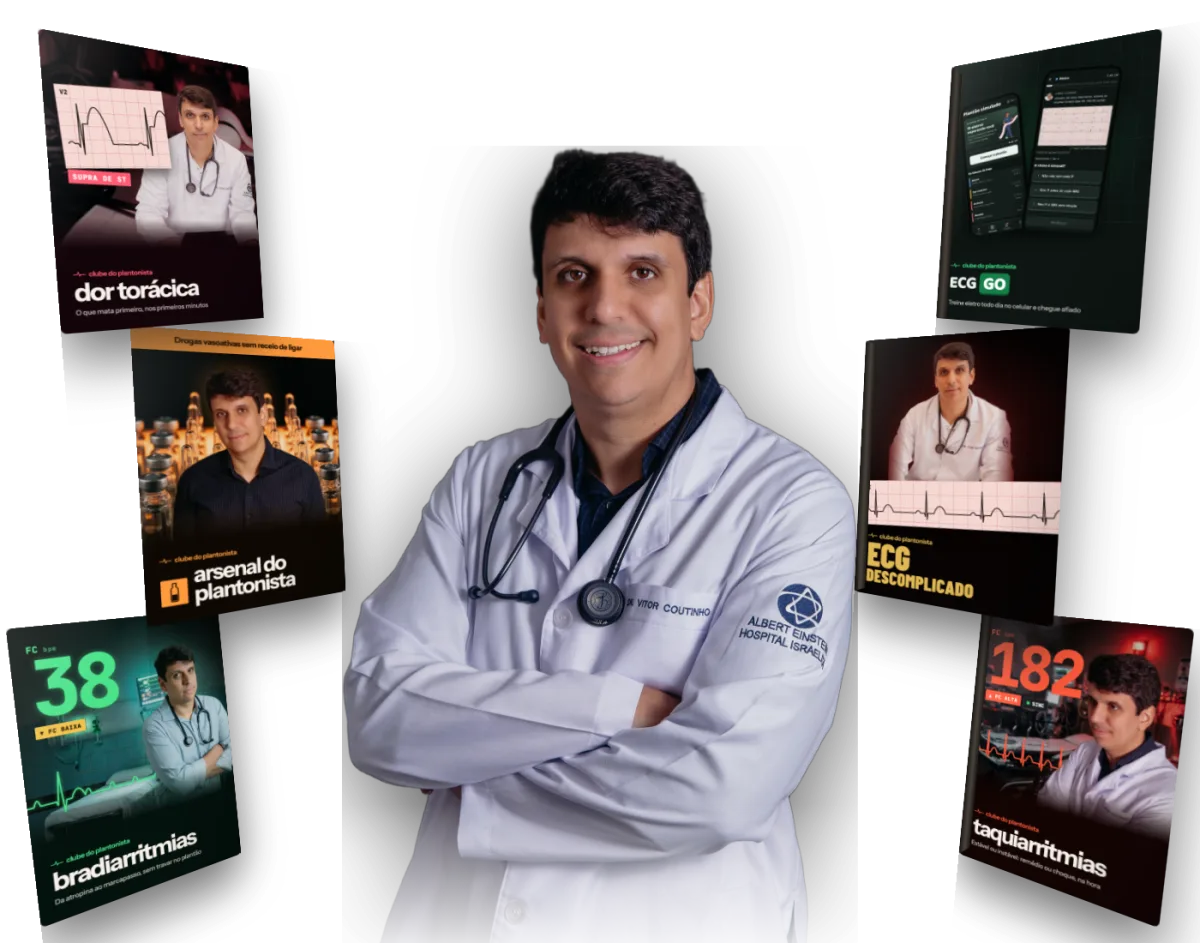
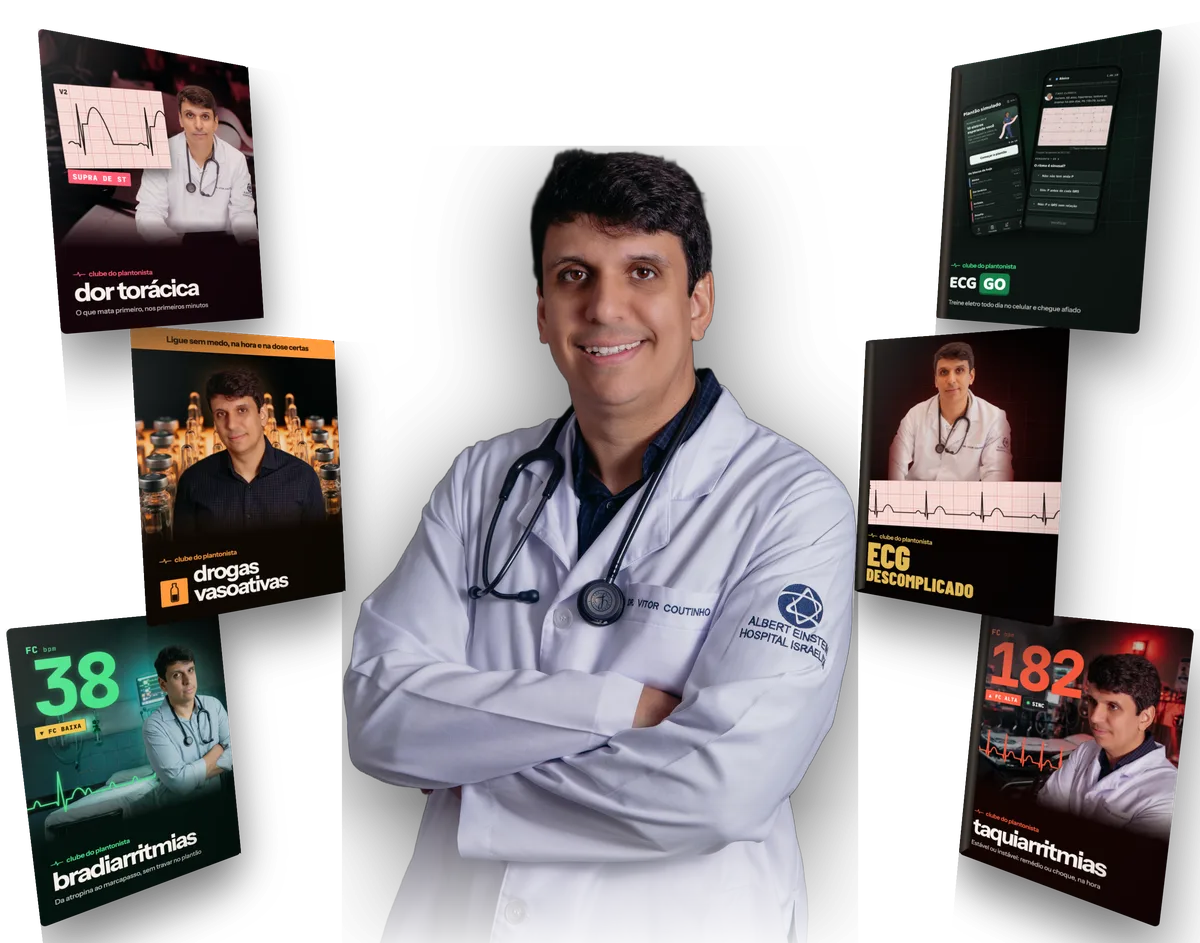
Black aberta v1: Arsenal do Plantonista vira Drogas Vasoativas (pedido do Vitor, 28/10) na capa, nas montagens e no carrossel

diff --git a/pc-bf26-v1/index.html b/pc-bf26-v1/index.html
@@ -376,7 +376,7 @@ footer{padding:30px 24px calc(110px + env(safe-area-inset-bottom));border-top:1p
     ["plantao-mensal-ao-vivo", "Plantão Mensal ao Vivo", "Um cardiologista tirando as suas dúvidas ao vivo, todo mês", "Todo mês você leva o que o plantão deixou sem resposta, e o Dr. Vitor resolve com você ao vivo, caso por caso."],
     ["ecg-descomplicado", "ECG Descomplicado", "Bata o olho no eletro e saiba o que fazer, sem chamar ninguém para confirmar", "A sequência que o Dr. Vitor usa em todo traçado, do zero às armadilhas, com eletros reais de plantão."],
     ["plantao-seguro", "Plantão Seguro", "Entre em qualquer plantão sabendo exatamente o que fazer", "Tudo o que a faculdade não ensinou: como o plantão funciona de verdade, a passagem que não deixa nada se perder e o raciocínio que protege você e o paciente."],
-    ["arsenal-do-plantonista", "Arsenal do Plantonista", "Ligue a noradrenalina sem medo, na hora e na dose certas", "As drogas de emergência que a maioria deixa para depois por insegurança. Você sai sabendo quando ligar, quanto e como."],
+    ["drogas-vasoativas", "Drogas Vasoativas", "Ligue a noradrenalina sem medo, na hora e na dose certas", "A noradrenalina e as outras drogas vasoativas que a maioria deixa para depois por insegurança. Você sai sabendo quando ligar, quanto e como."],
     ["antiarritmicos-na-emergencia", "Antiarrítmicos na Emergência", "Saiba qual remédio dar para cada arritmia, sem precisar abrir o celular", "Adenosina, amiodarona e as outras drogas antiarrítmicas, cada uma ligada ao ritmo que está no monitor, com indicação e dose na ponta da língua."],
     ["intubacao-no-plantao", "Intubação no Plantão", "Intube com a calma de quem já fez isso mil vezes", "Da indicação ao tubo no lugar: o preparo, a sequência rápida e as doses, para você conduzir a via aérea com a mão firme."],
     ["taquiarritmias", "Taquiarritmias", "Taquicardia no monitor e você sabe na hora: remédio ou choque", "Reconheça a taquicardia no eletro, separe o estável do instável e tome a decisão certa nos minutos que importam."],
